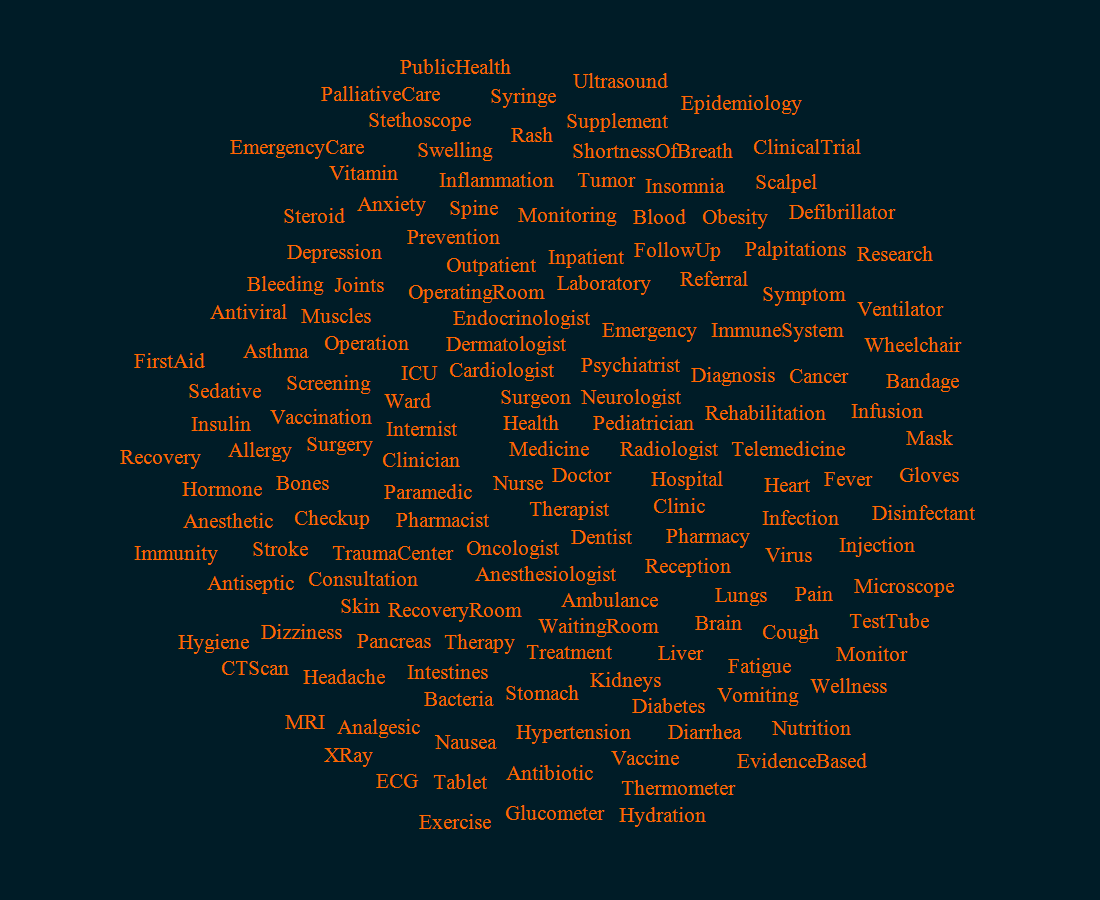
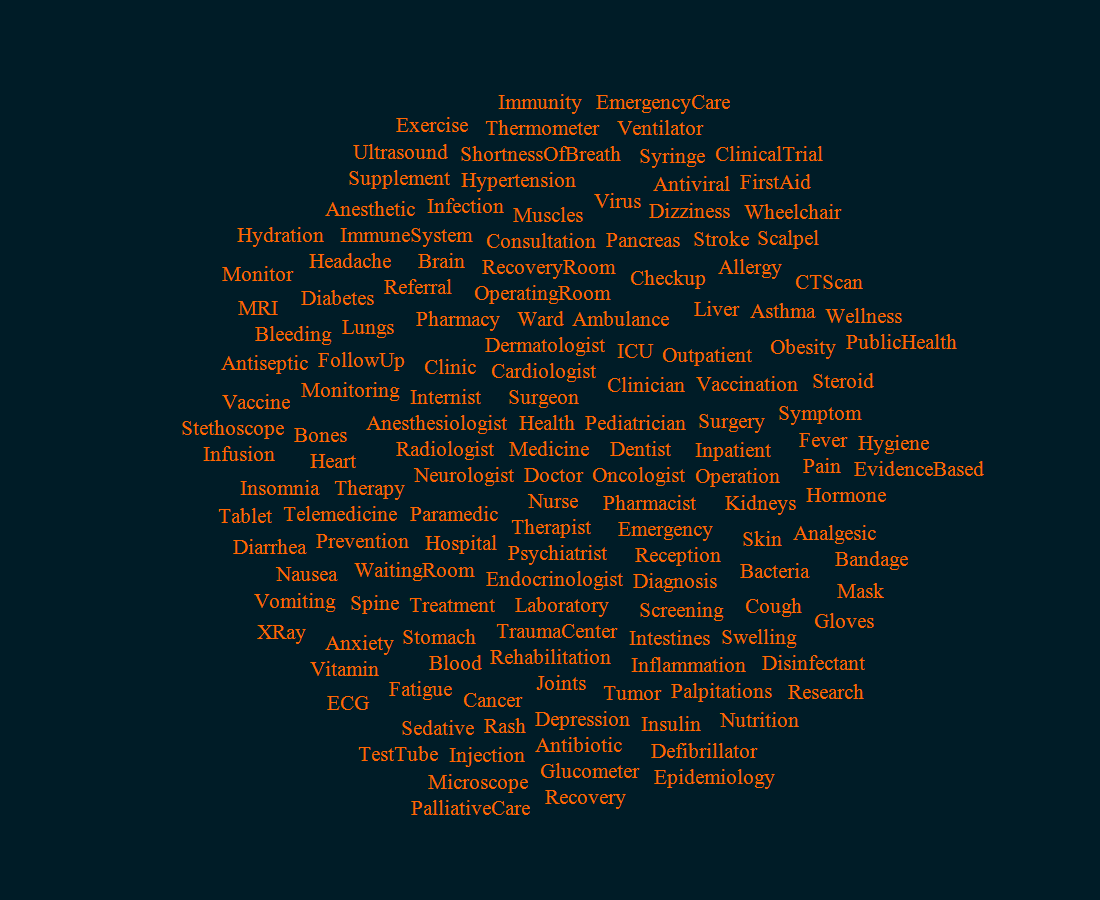
Вынес layouter в конструткор Visualizer, исправил константу в SpiralPointGenerator, сделал 3 задачу

Changed region(s): [[0.0927, 0.0622, 0.8964, 0.9333]]

diff --git a/cs/TagsCloudVisualization/Tests/CircularCloudLayouterTest.cs b/cs/TagsCloudVisualization/Tests/CircularCloudLayouterTest.cs
@@ -1,6 +1,7 @@
 using System.Drawing;
 using FluentAssertions;
 using NUnit.Framework;
+using NUnit.Framework.Interfaces;
 
 
 namespace TagsCloudVisualization;
@@ -10,12 +11,70 @@ public class CircularCloudLayouterTest
 {
     private CircularCloudLayouter layouter;
     private Point center;
+    const int imageWidth = 1100;
+    const int imageHeight = 900;
 
     [SetUp]
     public void SetUp()
     {
         center = new Point(100, 100);
         layouter = new CircularCloudLayouter(center);
+    }
+    [TearDown]
+    public void TearDown()
+    {
+        var result = TestContext.CurrentContext.Result;
+        if (result.Outcome.Status != TestStatus.Failed) return;
+        var testName = TestContext.CurrentContext.Test.Name;
+        var directory = TestContext.CurrentContext.TestDirectory;
+        var fileName = $"{testName}_tagCloud.png";
+        var path = Path.Combine(directory, fileName);
+        
+        var visualizer = new Visualizer(
+            new CircularCloudLayouter(new Point(imageWidth / 2, imageHeight / 2)));
+            
+        visualizer.DrawCloud(
+            new[]         {
+                "Football", "Soccer", "Basketball", "Baseball", "Hockey",
+                "Tennis", "Volleyball", "Rugby", "Cricket", "Golf",
+                "Boxing", "MMA", "Wrestling", "Cycling", "Running",
+                "Marathon", "Sprint", "Swimming", "Diving", "Rowing",
+                "Skating", "Skiing", "Snowboarding", "Surfing", "Skateboard",
+                "Climbing", "Bouldering", "Gymnastics", "Karate", "Judo",
+                "Taekwondo", "Badminton", "TableTennis", "Handball", "WaterPolo",
+                "Lacrosse", "Softball", "AmericanFootball", "Fencing", "Archery",
+                "Triathlon", "Biathlon", "Decathlon", "Heptathlon", "Crossfit",
+                "Powerlifting", "Weightlifting", "Bodybuilding", "Yoga", "Pilates",
+                "Aerobics", "Zumba", "Parkour", "Freerun", "Motorsport",
+                "FormulaOne", "Rally", "Karting", "Esports", "Chess",
+                "Darts", "Bowling", "Snooker", "Billiards", "Polo",
+                "Kayaking", "Canoeing", "Windsurfing", "Kitesurfing", "Paragliding",
+                "Mountaineering", "TrailRunning", "Ultramarathon", "NordicWalking", "Orienteering",
+                "Stadium", "Arena", "Coach", "Referee", "Captain",
+                "Team", "League", "Tournament", "Championship", "Playoffs",
+                "Fitness", "Training", "Warmup", "Cooldown", "Stretching",
+                "Goal", "Assist", "Penalty", "Offense", "Defense",
+                "SprintFinish", "Record", "Medal", "Victory", "FairPlay"
+            },
+            path,
+            imageWidth,
+            imageHeight,
+            Color.FromArgb(255, 102, 0),
+            Color.FromArgb(0, 28, 39),
+            new("Times New Roman", 16));
+
+        TestContext.Out.WriteLine($"Tag cloud visualization saved to file {path}");
+    }
+    
+    [Test]
+    public void FailedTest()
+    {
+        var size = new Size(20, 20);
+
+        var rect = layouter.PutNextRectangle(size);
+
+        var rectCenter = new Point(rect.Left + rect.Width / 2, rect.Top + rect.Height / 2);
+        rectCenter.Should().NotBe(center);
     }
 
     [Test]
@@ -107,13 +166,16 @@ public class CircularCloudLayouterTest
             "Ecosystem", "Nature", "Landscape", "Horizon", "Sky"
         };
 
-        var visualizer = new Visualizer();
+        var visualizer = new Visualizer(new CircularCloudLayouter(new Point(imageWidth / 2, imageHeight / 2)));
 
         visualizer.DrawCloud(
-            words,
+            words, 
             "wordCloud.png",
-            imageWidth: 800,
-            imageHeight: 800);
+            imageWidth,
+            imageHeight,
+            Color.FromArgb(255, 102, 0),
+            Color.FromArgb(0, 28, 39),
+            new("Times New Roman", 16));
     }
         
     [Test]
@@ -143,13 +205,16 @@ public class CircularCloudLayouterTest
             "SprintFinish", "Record", "Medal", "Victory", "FairPlay"
         };
 
-        var visualizer = new Visualizer();
+        var visualizer = new Visualizer(new CircularCloudLayouter(new Point(imageWidth / 2, imageHeight / 2)));
 
         visualizer.DrawCloud(
-            words,
+            words, 
             "wordCloudSports.png",
-            imageWidth: 1000,
-            imageHeight: 800);
+            imageWidth,
+            imageHeight,
+            Color.FromArgb(255, 102, 0),
+            Color.FromArgb(0, 28, 39),
+            new("Times New Roman", 16));
     }
 
     [Test]
@@ -189,13 +254,16 @@ public class CircularCloudLayouterTest
                 
         };
 
-        var visualizer = new Visualizer();
+        var visualizer = new Visualizer(new CircularCloudLayouter(new Point(imageWidth / 2, imageHeight / 2)));
 
         visualizer.DrawCloud(
             words, 
             "wordCloudMedicine.png",
-            imageWidth: 1100,
-            imageHeight: 900);
+            imageWidth,
+            imageHeight,
+            Color.FromArgb(255, 102, 0),
+            Color.FromArgb(0, 28, 39),
+            new("Times New Roman", 16));
     }
     
     private static Point GetCenter(Rectangle rectangle)

diff --git a/cs/TagsCloudVisualization/Visualizer.cs b/cs/TagsCloudVisualization/Visualizer.cs
@@ -3,27 +3,26 @@ using System.Drawing.Imaging;
 
 namespace TagsCloudVisualization;
 
-public class Visualizer
+public class Visualizer(ICircularCloudLayouter layouter)
 {
-    private readonly Font font = new("Times New Roman", 16);
-
     public void DrawCloud(
         IEnumerable<string> words,
         string outputPath,
         int imageWidth,
-        int imageHeight)
+        int imageHeight,
+        Color textColor,
+        Color backgroundColor,
+        Font font)
     { 
         var bitmap = new Bitmap(imageWidth, imageHeight);
         var graphics = Graphics.FromImage(bitmap);
-        graphics.Clear(Color.FromArgb(0, 28, 39));
-
-        var center = new Point(imageWidth / 2, imageHeight / 2);
-        var layouter = new CircularCloudLayouter(center);
-        var textBrush = new SolidBrush(Color.FromArgb(255, 102, 0));
+        graphics.Clear(backgroundColor);
+        
+        var textBrush = new SolidBrush(textColor);
 
         foreach (var word in words)
         {
-            var size = MeasureWord(word, graphics);
+            var size = MeasureWord(word, graphics, font);
             var rectangle = layouter.PutNextRectangle(size);
             
             graphics.DrawString(word, font, textBrush, rectangle.Location);
@@ -32,7 +31,7 @@ public class Visualizer
         bitmap.Save(outputPath, ImageFormat.Png);
     }
 
-    private Size MeasureWord(string word, Graphics g)
+    private Size MeasureWord(string word, Graphics g, Font font)
     {
         var size = g.MeasureString(word, font);
         return new Size((int)size.Width, (int)size.Height);

diff --git a/cs/TagsCloudVisualization/SpiralPointGenerator.cs b/cs/TagsCloudVisualization/SpiralPointGenerator.cs
@@ -4,8 +4,8 @@ namespace TagsCloudVisualization;
 
 public class SpiralPointGenerator(Point center)
 {
-    private const double AngleStep = 0.05;
-    private const double RadiusStep = 1;
+    private const double AngleStepRadians = 0.05;
+    private const double RadiusGrowthRate = 0.1;
     private double angle;
     private double radius;
 
@@ -14,8 +14,8 @@ public class SpiralPointGenerator(Point center)
         var x = center.X + (int)(radius * Math.Cos(angle));
         var y = center.Y + (int)(radius * Math.Sin(angle));
 
-        angle += AngleStep;
-        radius += RadiusStep / (2 * Math.PI);
+        angle += AngleStepRadians;
+        radius = RadiusGrowthRate * angle;
 
         return new Point(x, y);
     }
